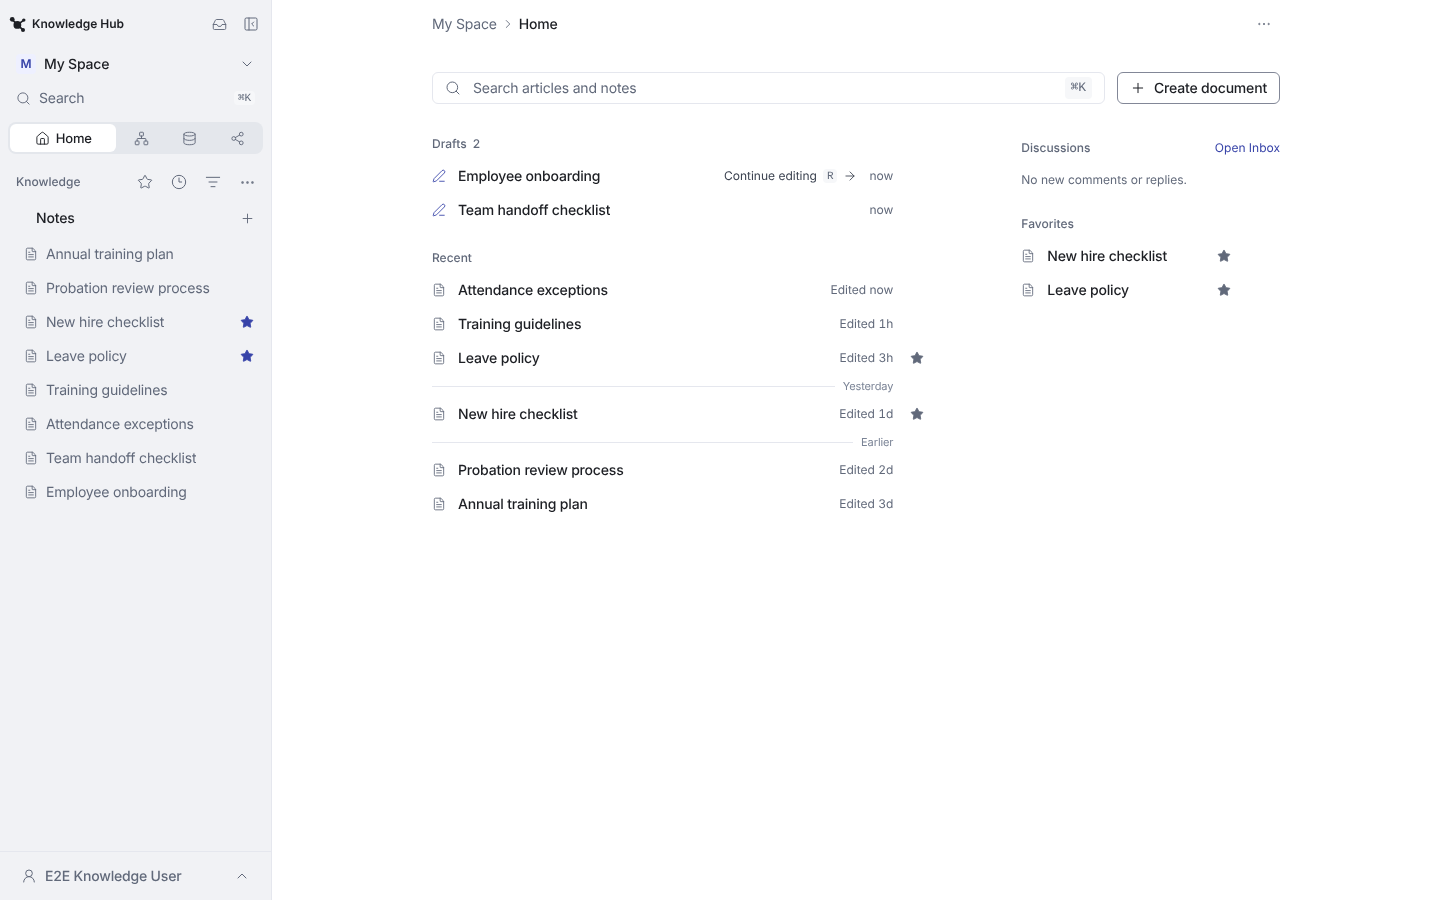
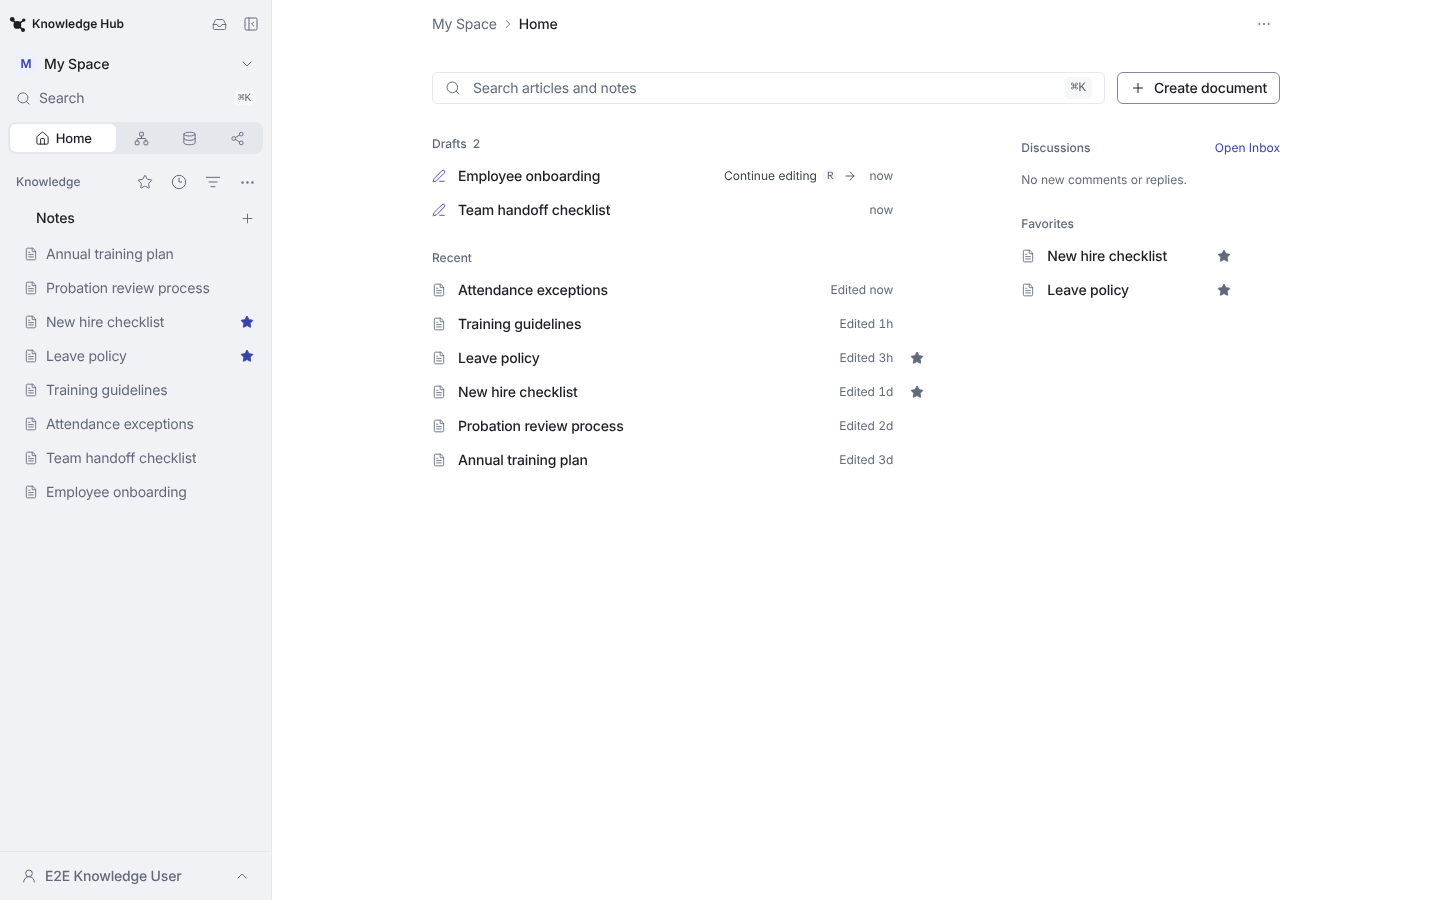
Personal Home: Recent is one list again, without day groups
The time column already says how recent each row is, so the day labels
repeated it, and their separators split a short list into uneven pieces.

Claude-Session: https://claude.ai/code/session_01N59NajKAtrdFpUvtSETfyD

Changed region(s): [[0.2812, 0.4044, 0.4375, 0.5289], [0.5625, 0.4044, 0.6562, 0.5289], [0.3438, 0.56, 0.4062, 0.5911]]

diff --git a/src/components/knowledge/personal-home.tsx b/src/components/knowledge/personal-home.tsx
@@ -5,7 +5,7 @@ import { bufferTyping, plainClick } from "./typing-ahead";
 import { ReopenGuidanceMenuItem } from "./reopen-guidance-menu-item";
 import { useEffect, useState, type ReactNode } from "react";
 import { useRouter } from "next/navigation";
-import { RECENT_SHOWN, homeLists, recentGroups, type ContinueDoc, type ContinueDraft, type DraftItem, type RecentItem } from "@/lib/home-continue";
+import { RECENT_SHOWN, homeLists, type ContinueDoc, type ContinueDraft, type DraftItem, type RecentItem } from "@/lib/home-continue";
 import { AttentionList, HomeSection as Section, UnreadDiscussions, type HomeNotice } from "./home-attention";
 import type { FreshnessReminder } from "@/modules/personal/application/knowledge-freshness";
 
@@ -19,7 +19,7 @@ import { useDocumentShortcuts, documentShortcutKey } from "./use-document-shortc
 import { toggleFavoriteDocument } from "@/lib/document-shortcuts";
 import { Button, buttonClasses } from "@/components/ui/button";
 import { PageHeader } from "@/components/shell/page-header";
-import { Timestamp, useDisplayTimeZone } from "@/components/ui/timestamp";
+import { Timestamp } from "@/components/ui/timestamp";
 import { Tooltip } from "@/components/ui/tooltip";
 import { actionsFor, type Action } from "@/components/actions/action-registry";
 import { RowActionsTrigger, RowContextMenu, useActionRunner } from "@/components/actions/action-menu";
@@ -141,12 +141,6 @@ export function PersonalHome({ workspaceId, documents, drafts, reminders = [], n
     window.addEventListener("keydown", onKeyDown);
     return () => window.removeEventListener("keydown", onKeyDown);
   }, [router, newNoteHref, resumeHref]);
-  // Recent's day groups need the reader's zone and clock, which the server cannot know: the first paint is the
-  // flat list, as Timestamp's first paint is UTC. ponytail: the clock is read once, so a page left open past
-  // midnight keeps yesterday's groups until it is opened again.
-  const zone = useDisplayTimeZone();
-  const [now, setNow] = useState<number | null>(null);
-  useEffect(() => setNow(Date.now()), []);
   const activeDocumentCount = documents.filter(doc => doc.status === "ACTIVE" && doc.sourceStatus === "ACTIVE").length;
   const [showAllRecent, setShowAllRecent] = useState(false);
   const hiddenRecent = lists.recent.length - RECENT_SHOWN;
@@ -213,7 +207,7 @@ export function PersonalHome({ workspaceId, documents, drafts, reminders = [], n
     return undefined;
   }
 
-  // Invisible copies of a document row's preview, star and menu buttons, so what stands in their place lines up with
+  // Invisible copies of a document row's preview, star and menu buttons, so a draft's time lines up with
   // Recent's times at every control size.
   const slot = buttonClasses({ variant: "ghost", icon: true, size: "sm", className: "invisible" });
   const rowSlots = <span aria-hidden="true" className="mr-1 flex shrink-0"><span className={`${slot} hidden lg:inline-flex`} /><span className={slot} /><span className={slot} /></span>;
@@ -282,18 +276,7 @@ export function PersonalHome({ workspaceId, documents, drafts, reminders = [], n
           </Section>}
           <Section title="Recent">
             {!lists.recent.length ? <EmptyLine>Documents you edit or open will appear here.{activeDocumentCount === 0 && dismissed ? <ReopenGuidanceMenuItem workspaceId={workspaceId} surface="empty" /> : null}</EmptyLine>
-              : now === null ? <ul onKeyDown={navigateListRows} className="space-y-0.5">{recentShown.map(recentRow)}</ul>
-              : <div onKeyDown={navigateListRows}>{recentGroups(recentShown, now, zone).map((group, g) => (
-                <div key={group.label}>
-                  {/* The day belongs to the time column, not the titles: a hairline with a faint label at the right, so
-                      it never reads as a heading. Today needs none at the top; every row already carries its time. */}
-                  {g === 0 && group.label === "Today" ? <h3 className="sr-only">Today</h3>
-                    : <h3 className="flex items-center pr-1 text-micro text-kh-text-faint">
-                      <span className="flex min-w-0 flex-1 items-center gap-2 px-3 py-1"><span aria-hidden="true" className="h-px flex-1 bg-kh-border" />{group.label}</span>{rowSlots}
-                    </h3>}
-                  <ul className="space-y-0.5">{group.items.map(recentRow)}</ul>
-                </div>
-              ))}</div>}
+              : <ul onKeyDown={navigateListRows} className="space-y-0.5">{recentShown.map(recentRow)}</ul>}
             {hiddenRecent > 0 ? <Button variant="ghost" size="sm" className="mx-3 mt-1 text-kh-text-muted" aria-expanded={showAllRecent} onClick={() => setShowAllRecent(!showAllRecent)}>
               {showAllRecent ? "Show fewer" : `Show ${hiddenRecent} more`}
             </Button> : null}

diff --git a/tests/unit/home-continue.test.ts b/tests/unit/home-continue.test.ts
@@ -1,5 +1,5 @@
 import { describe, expect, it } from "vitest";
-import { RECENT_LIMIT, documentsForHome, homeLists, recentGroups, type ContinueDoc, type ContinueDraft } from "@/lib/home-continue";
+import { RECENT_LIMIT, documentsForHome, homeLists, type ContinueDoc, type ContinueDraft } from "@/lib/home-continue";
 
 const doc = (id: string, over: Partial<ContinueDoc> = {}): ContinueDoc => ({
   documentId: id, sourceId: "src", title: id, updatedAt: "2026-10-01T00:00:00.000Z",
@@ -98,27 +98,5 @@ describe("documentsForHome", () => {
       "archived-draft",
       "source-archived-draft",
     ]);
-  });
-});
-
-describe("recentGroups", () => {
-  const now = Date.parse("2026-11-27T02:00:00.000Z"); // 10:00 on the 27th in Taipei, 21:00 on the 26th in New York
-  const items = [
-    { id: "a", at: "2026-11-27T01:00:00.000Z" },
-    { id: "b", at: "2026-11-26T17:00:00.000Z" },
-    { id: "c", at: "2026-11-26T06:00:00.000Z" },
-    { id: "d", at: "2026-11-20T00:00:00.000Z" },
-    { id: "e" },
-  ];
-  const shape = (timeZone: string) => recentGroups(items, now, timeZone).map(g => `${g.label}:${g.items.map(i => i.id).join("")}`);
-
-  it("files items by calendar day in the reader's zone, untimed ones last", () => {
-    expect(shape("Asia/Taipei")).toEqual(["Today:ab", "Yesterday:c", "Earlier:de"]);
-    expect(shape("America/New_York")).toEqual(["Today:abc", "Earlier:de"]);
-  });
-
-  it("drops empty groups", () => {
-    expect(recentGroups([], now, "UTC")).toEqual([]);
-    expect(recentGroups([{ at: "2026-11-01T00:00:00.000Z" }], now, "UTC").map(g => g.label)).toEqual(["Earlier"]);
   });
 });

diff --git a/src/lib/home-continue.ts b/src/lib/home-continue.ts
@@ -66,22 +66,3 @@ export function homeLists({ documents, drafts, recent, openedAt = {} }: {
 
   return { drafts: draftItems, recent: recentItems };
 }
-
-export type RecentGroup<T> = { label: "Today" | "Yesterday" | "Earlier"; items: T[] };
-
-/**
- * Splits Recent into calendar days in the reader's zone, keeping each item's order. An untimed item is
- * Earlier; an empty group is dropped.
- */
-export function recentGroups<T extends { at?: string }>(items: readonly T[], now: number, timeZone: string): RecentGroup<T>[] {
-  const day = new Intl.DateTimeFormat("en-CA", { timeZone, year: "numeric", month: "2-digit", day: "2-digit" });
-  const today = day.format(now);
-  // ponytail: yesterday is the day 24h ago, so a DST change can misfile its edge hour; step by calendar if that matters.
-  const yesterday = day.format(now - 86_400_000);
-  const groups: RecentGroup<T>[] = [{ label: "Today", items: [] }, { label: "Yesterday", items: [] }, { label: "Earlier", items: [] }];
-  for (const item of items) {
-    const key = item.at ? day.format(new Date(item.at)) : undefined;
-    groups[key === today ? 0 : key === yesterday ? 1 : 2].items.push(item);
-  }
-  return groups.filter(group => group.items.length > 0);
-}

diff --git a/docs/superpowers/specs/2026-10-19-home-continue-design.md b/docs/superpowers/specs/2026-10-19-home-continue-design.md
@@ -251,18 +251,12 @@ this section is current.
    `text-muted` too. The accent leaves the Drafts and Discussions counts: next
    to the hint and the links it made a third and fourth accent in the first
    band of the page. Unread Discussions keep their 6px `bg-kh-primary` dot.
-5. **Recent is grouped by day**: Today, Yesterday and Earlier, by calendar day
-   in the reader's zone; an untimed recent is Earlier. The day belongs to the
-   time column, not the titles: a group after the first opens with a hairline
-   (`bg-kh-border`) and its day in `micro` `text-faint` at the right, and a
-   first group of Today has no visible label (a visually hidden heading keeps
-   it for screen readers). Seen rendered, left-aligned day labels read as
-   headings between the titles. `text-faint` is allowed here because the label
-   can be ignored without losing anything: every row shows its own time. Each row shows its event
-   beside the short time ("Edited 5m", "Opened 2d"); the tooltip keeps the full
-   date and time. The groups appear once the client knows its zone and clock,
-   the moment this device's Opened recents arrive anyway; the first paint is the
-   flat list. "Show N more" still counts rows and is applied before grouping.
+5. **Recent is one list, newest first, with no day groups.** Each row shows
+   its event beside the short time ("Edited 5m", "Opened 2d"); the tooltip
+   keeps the full date and time. Day groups (Today, Yesterday, Earlier) were
+   tried and dropped: the time column already says how recent a row is, so a
+   day label repeated it, and every separator split a short list into uneven
+   pieces, often of one row.
 6. **The right column is Needs attention, Discussions, Favorites**: what waits
    for the reader (a source to fix, a reply to answer) before the standing
    shortcuts. Discussions is still always rendered with its empty copy (the
@@ -279,6 +273,5 @@ this section is current.
    container query on the page box (`kh-home`, from 50rem of content) replaces
    `xl:`, so collapsing the sidebar can make room for the second column.
 
-Tests: `homeLists`' day grouping (`recentGroups`) in `home-continue.test.ts`;
-Home's order, labels, hint and `R` key in `personal-home-folder-sync.test.tsx`;
+Tests: Home's order, labels, hint and `R` key in `personal-home-folder-sync.test.tsx`;
 reminder rows in `home-attention.test.tsx`.
